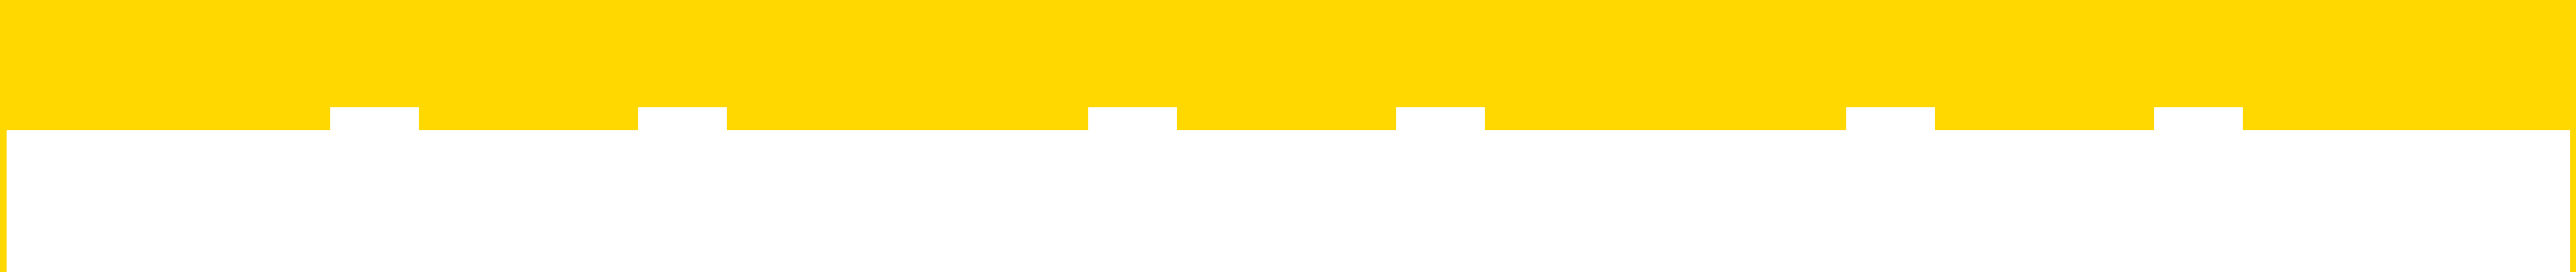
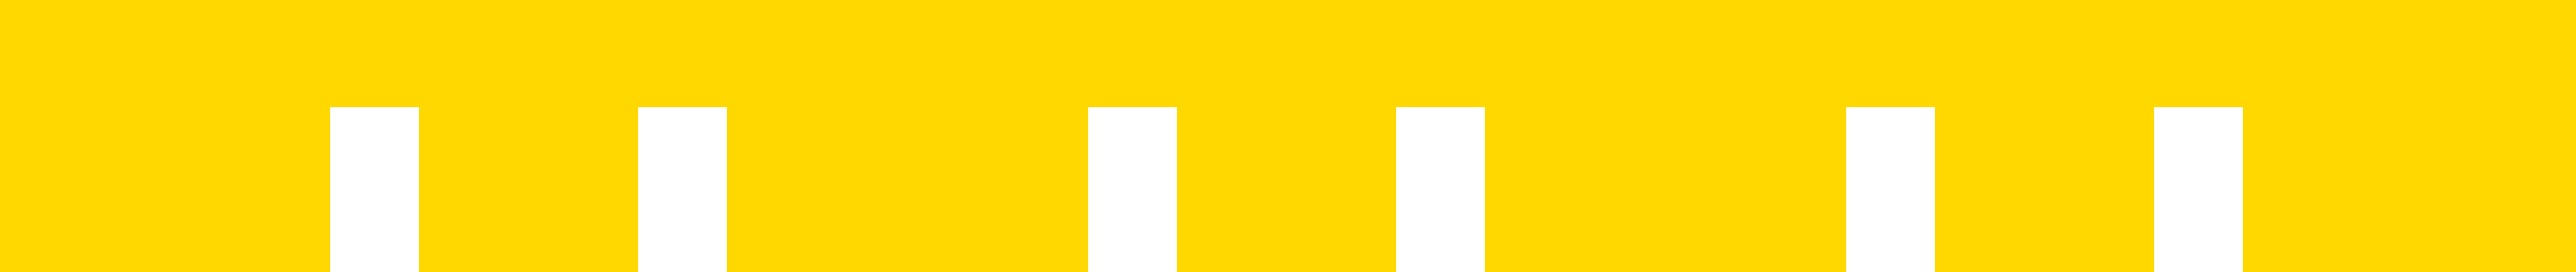
UPDATED the hitbox of the outside of the tram to be more consistent.

diff --git a/Learn CTS/Tram.cs b/Learn CTS/Tram.cs
@@ -37,7 +37,8 @@ namespace Learn_CTS
             this.max_distance_stop = this.DistanceBeforeStopping();
             this.hitbox_inside_b = CreateHitbox(this.GetCustomPathHitbox("TramInsideB"));
             this.tram_inside = new Texture("TramInside", this.GetX(), this.GetY(), this.GetZ() + 1);
-            this.tram_outside = new Texture("TramOutside",this.GetX(), this.GetY());
+            //this.tram_outside = new Texture("TramOutside",this.GetX(), this.GetY());
+            this.tram_outside = new Texture("TramOutside", this.GetX(), this.GetY(), true);
             this.doors_left = new Texture("DoorsLeft", this.GetX(), this.GetY(), this.tram_outside.GetZ() + 1);
             this.doors_right = new Texture("DoorsRight", this.GetX(), this.GetY(), this.tram_outside.GetZ() + 1);
             this.tram_inside.DisableCollisions();
